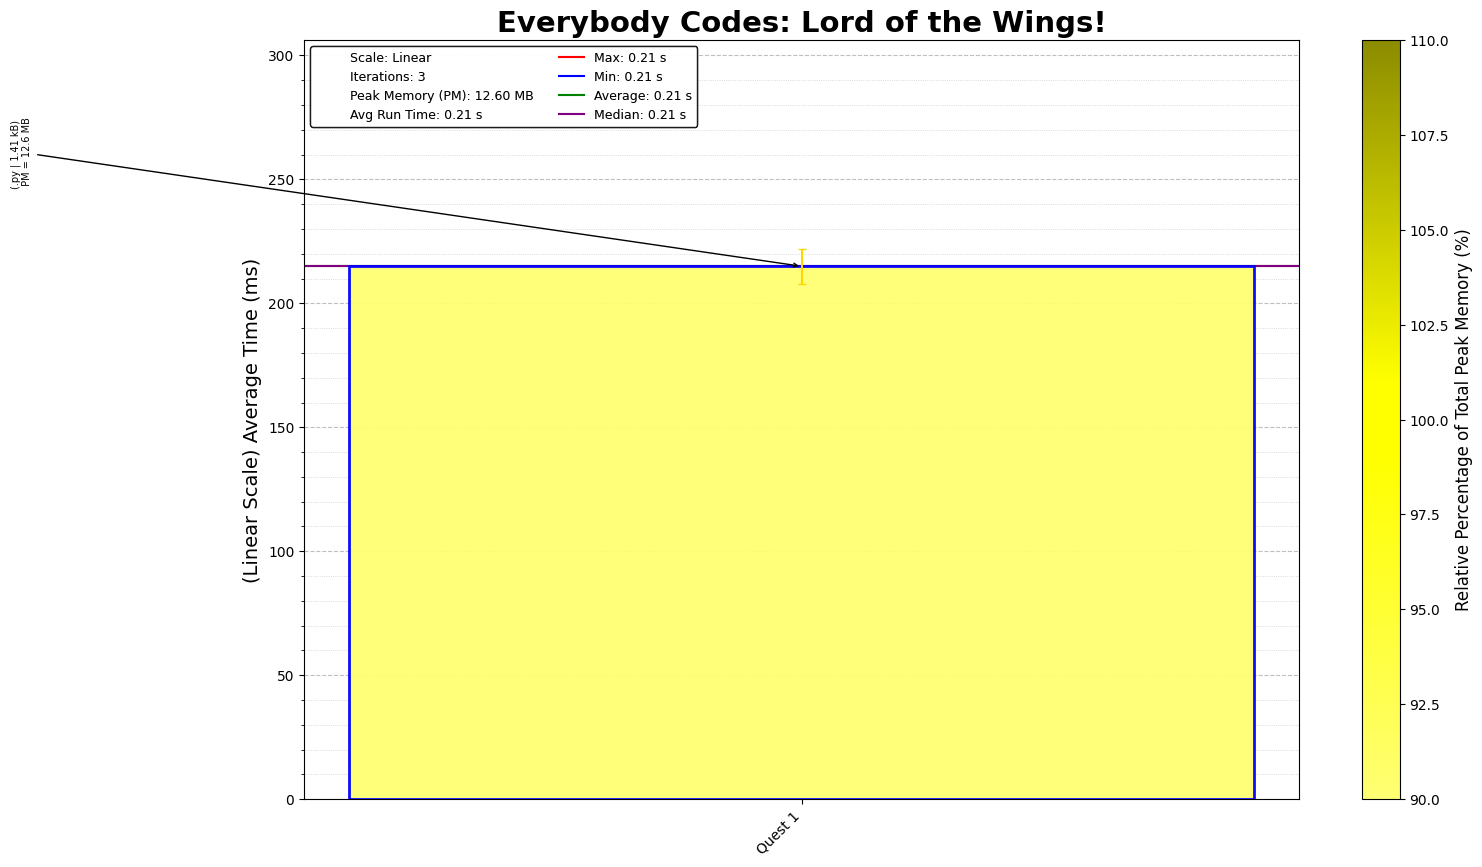
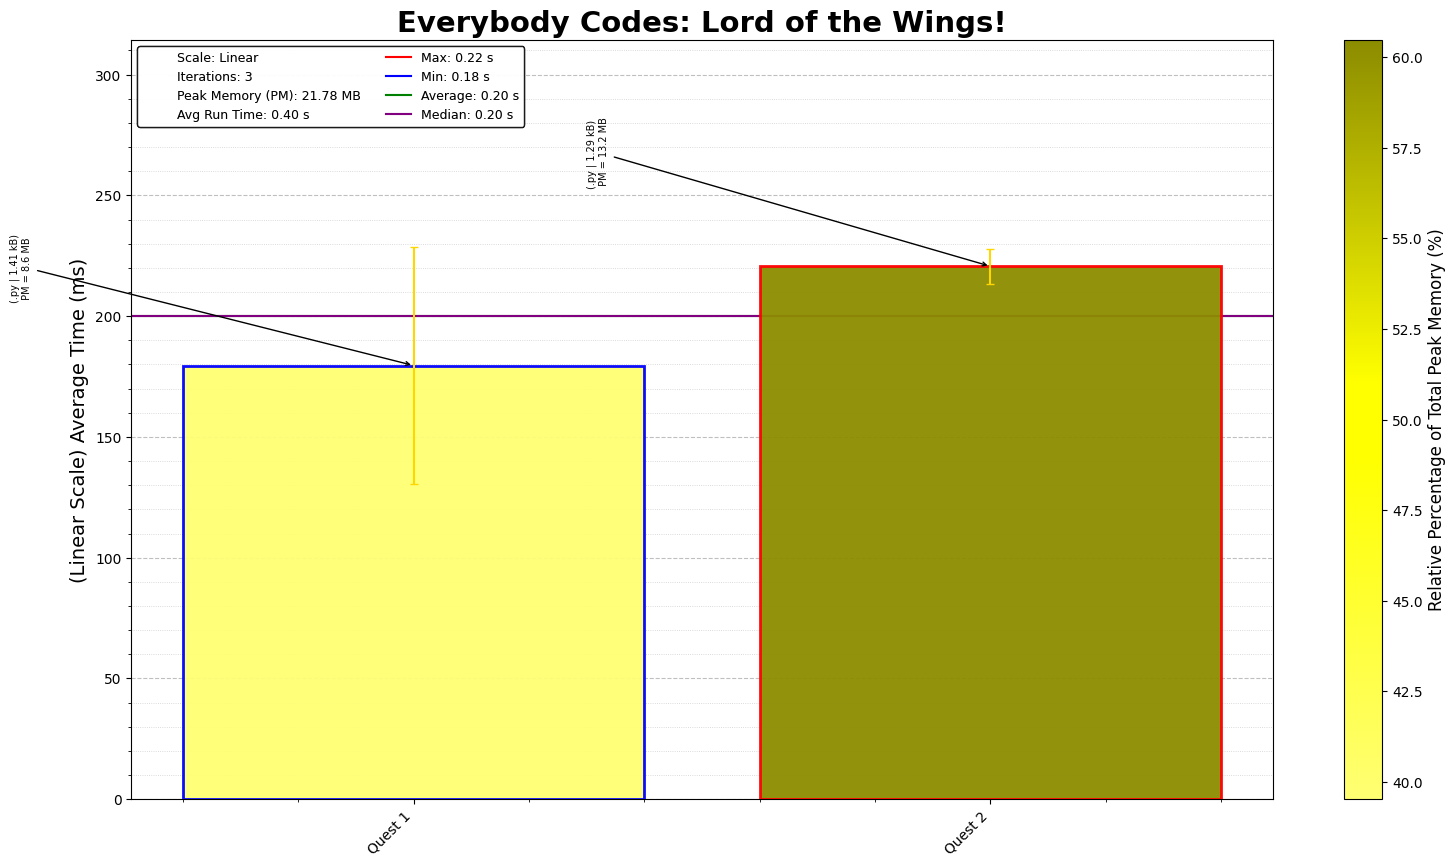
EC 2026 Quest 02

diff --git a/2026/02/2026Day02.py b/2026/02/2026Day02.py
@@ -1,0 +1,37 @@
+"""Everybody Codes - Quest 2, Year 2026
+Solution Started: October 28, 2026
+Puzzle Link: https://everybody.codes/event/2026/quests/2
+Solution by: Abbas Moosajee
+Brief: [The Axeperiment]"""
+
+#!/usr/bin/env python3
+from pathlib import Path
+from graphlib import TopologicalSorter
+
+# List of input file names
+input_files = ["Day02_input_p1.txt", "Day02_input_p2.txt", "Day02_input_p3.txt"]
+
+# Read and split the input data into individual lists
+input_data_p1, input_data_p2, input_data_p3 = [
+    open(Path(__file__).parent / file).read().strip().split('\n')
+    for file in input_files
+]
+
+def arrange_alloys(alloy_list: str) -> int:
+    sorter = TopologicalSorter()
+    for pair in alloy_list.split():
+        if ">" in pair:
+            bigger, smaller = pair.split(">")
+        else:
+            smaller, bigger = pair.split("<")
+        sorter.add(int(smaller), int(bigger))  # smaller depends on bigger
+    return int("".join(map(str, sorter.static_order())))
+
+alloy_p1 = [arrange_alloys(metals) for metals in input_data_p1[:]]
+alloy_p2 = [arrange_alloys(metals) for metals in input_data_p2[:]]
+alloy_p3 = [arrange_alloys(metals) for metals in input_data_p3[:]]
+
+print("EC 2026, Quest 02")
+print("Part 1:", sum(alloy_p1))
+print("Part 2:", sum(alloy_p2))
+print("Part 3:", sum(alloy_p3))

diff --git a/2026/README_2026.md b/2026/README_2026.md
@@ -6,4 +6,5 @@ This repository contains coding solutions for the 2026 Everybody Codes. Each day
 
 ## Day-by-Day Coding Overview
 
-1. **Day 1 - The Conservation**: Simple exercis, took a while to debug it tho.
+1. **Day 1 - The Conservation**: Simple exercise, took a while to debug it tho.
+2. **Day 2 - The Axeperiment**: Well this was a different algorithm to learn
